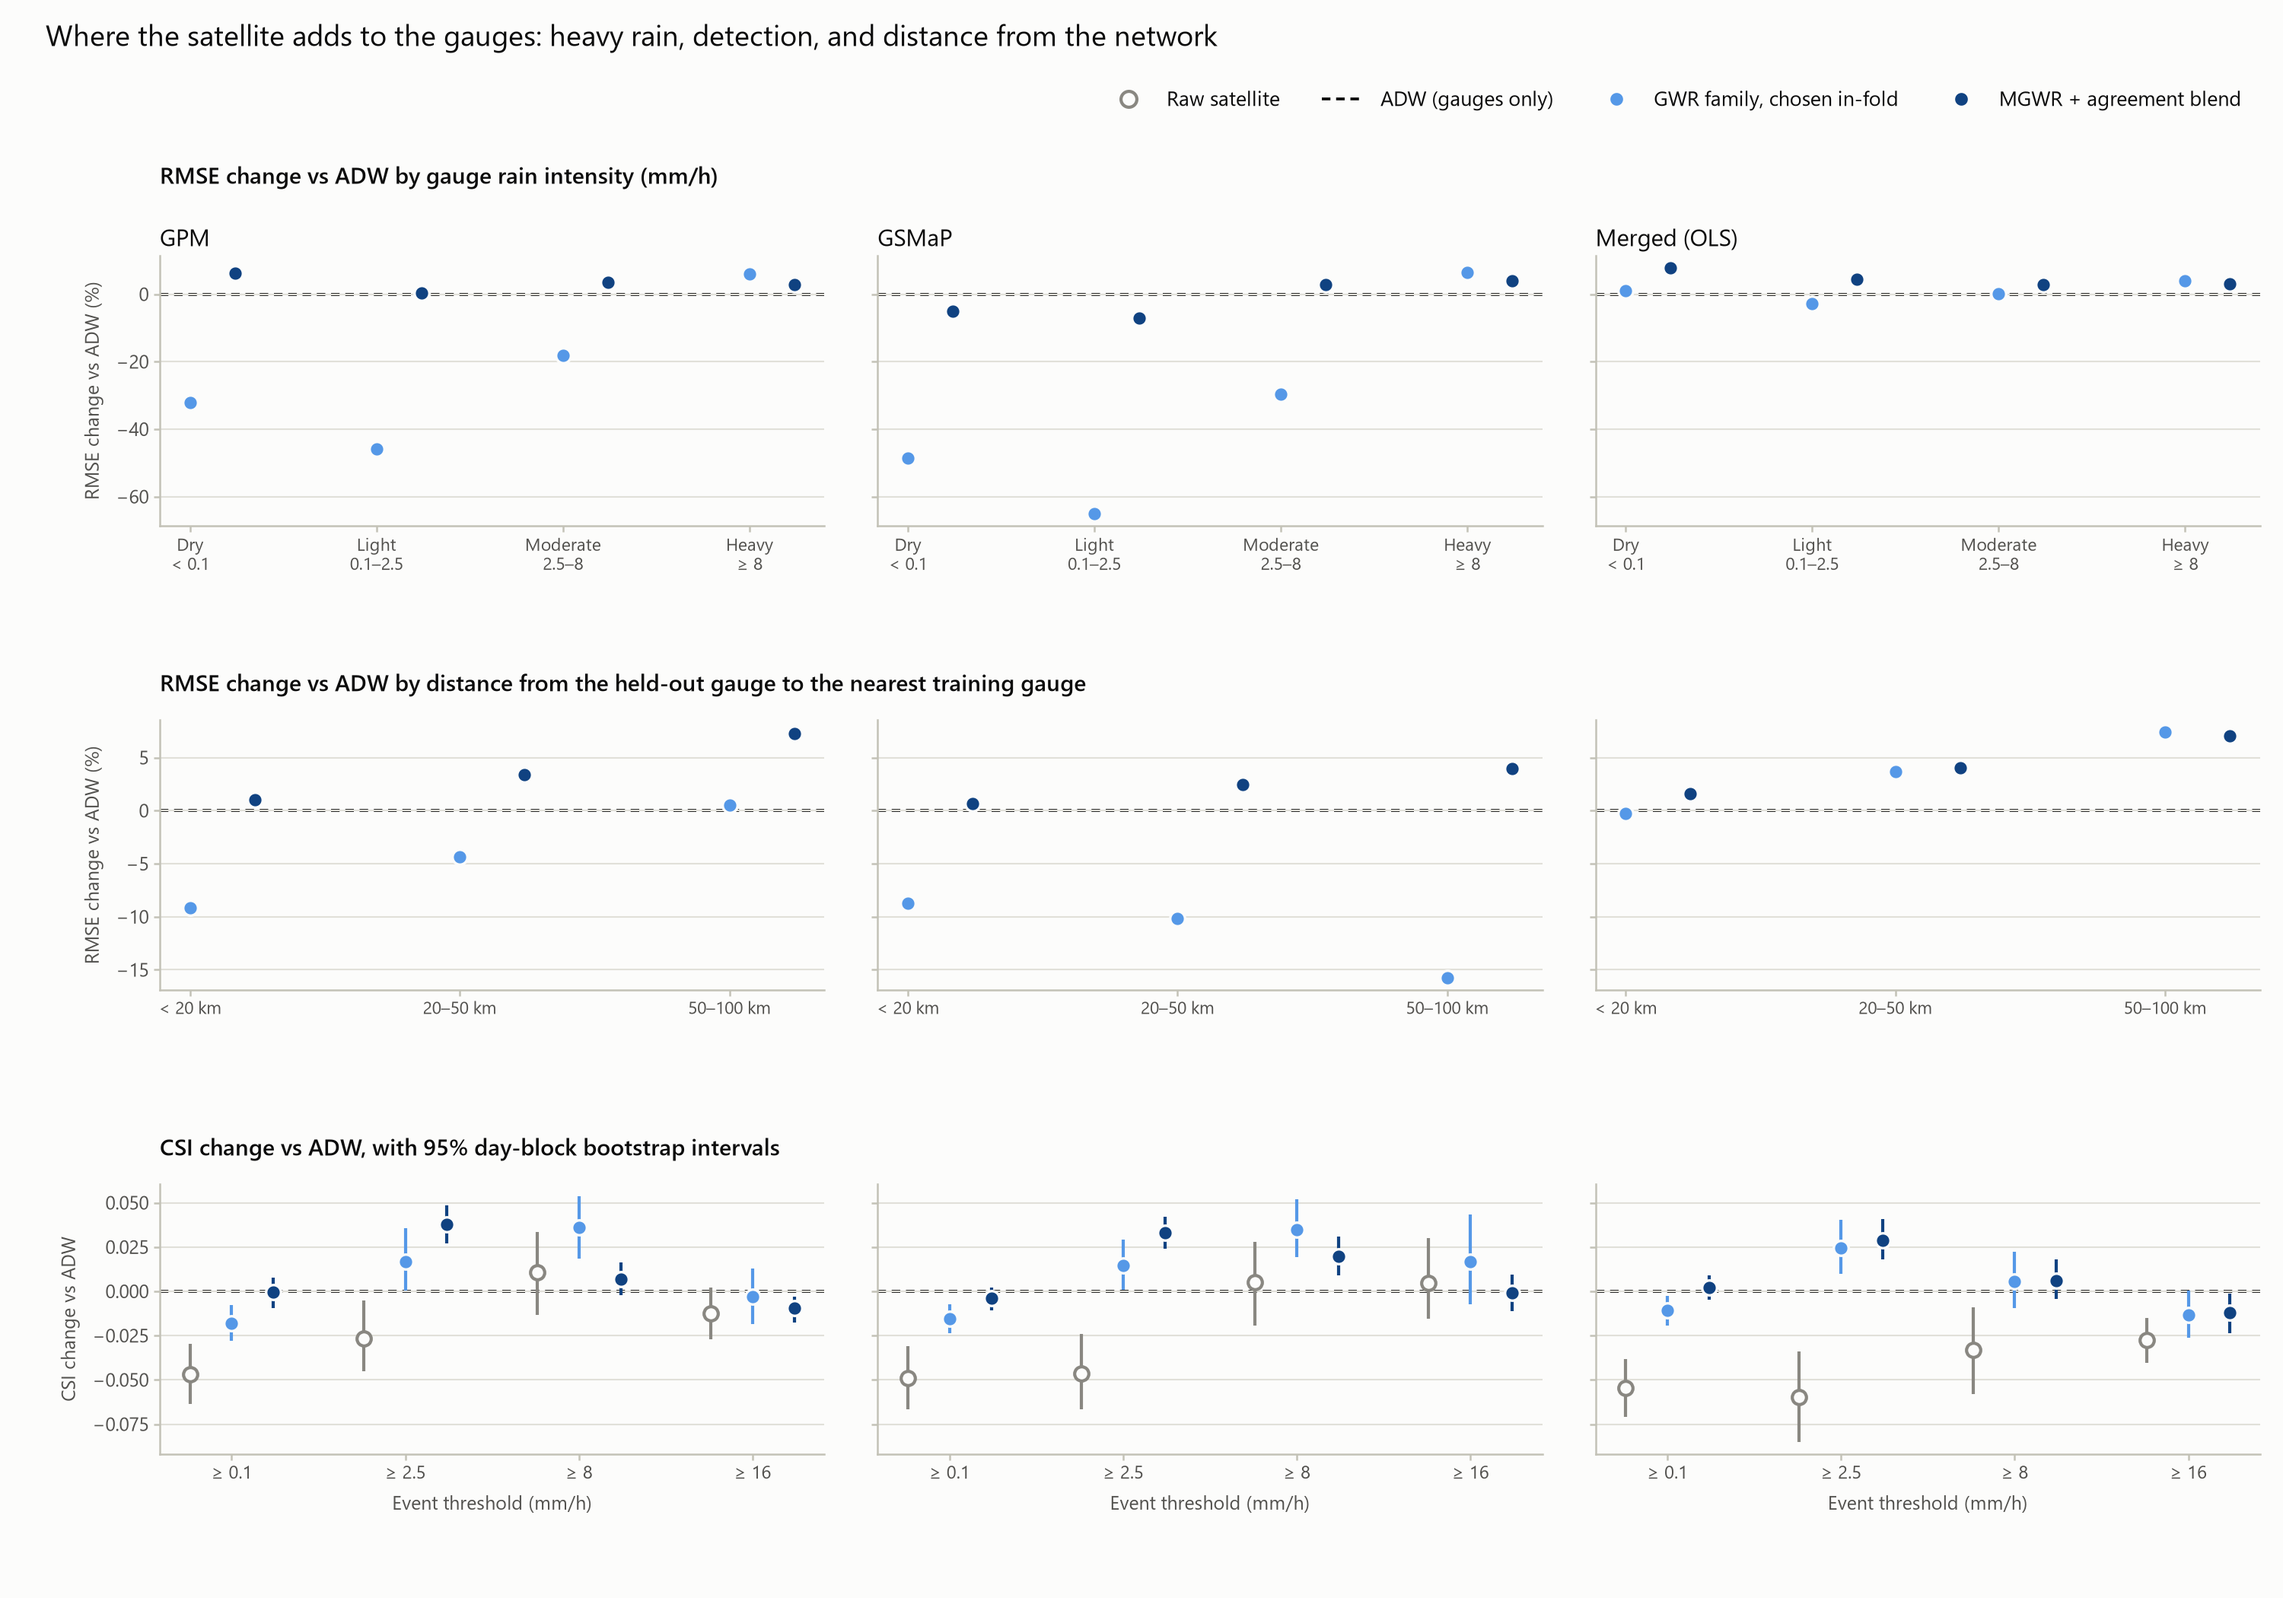
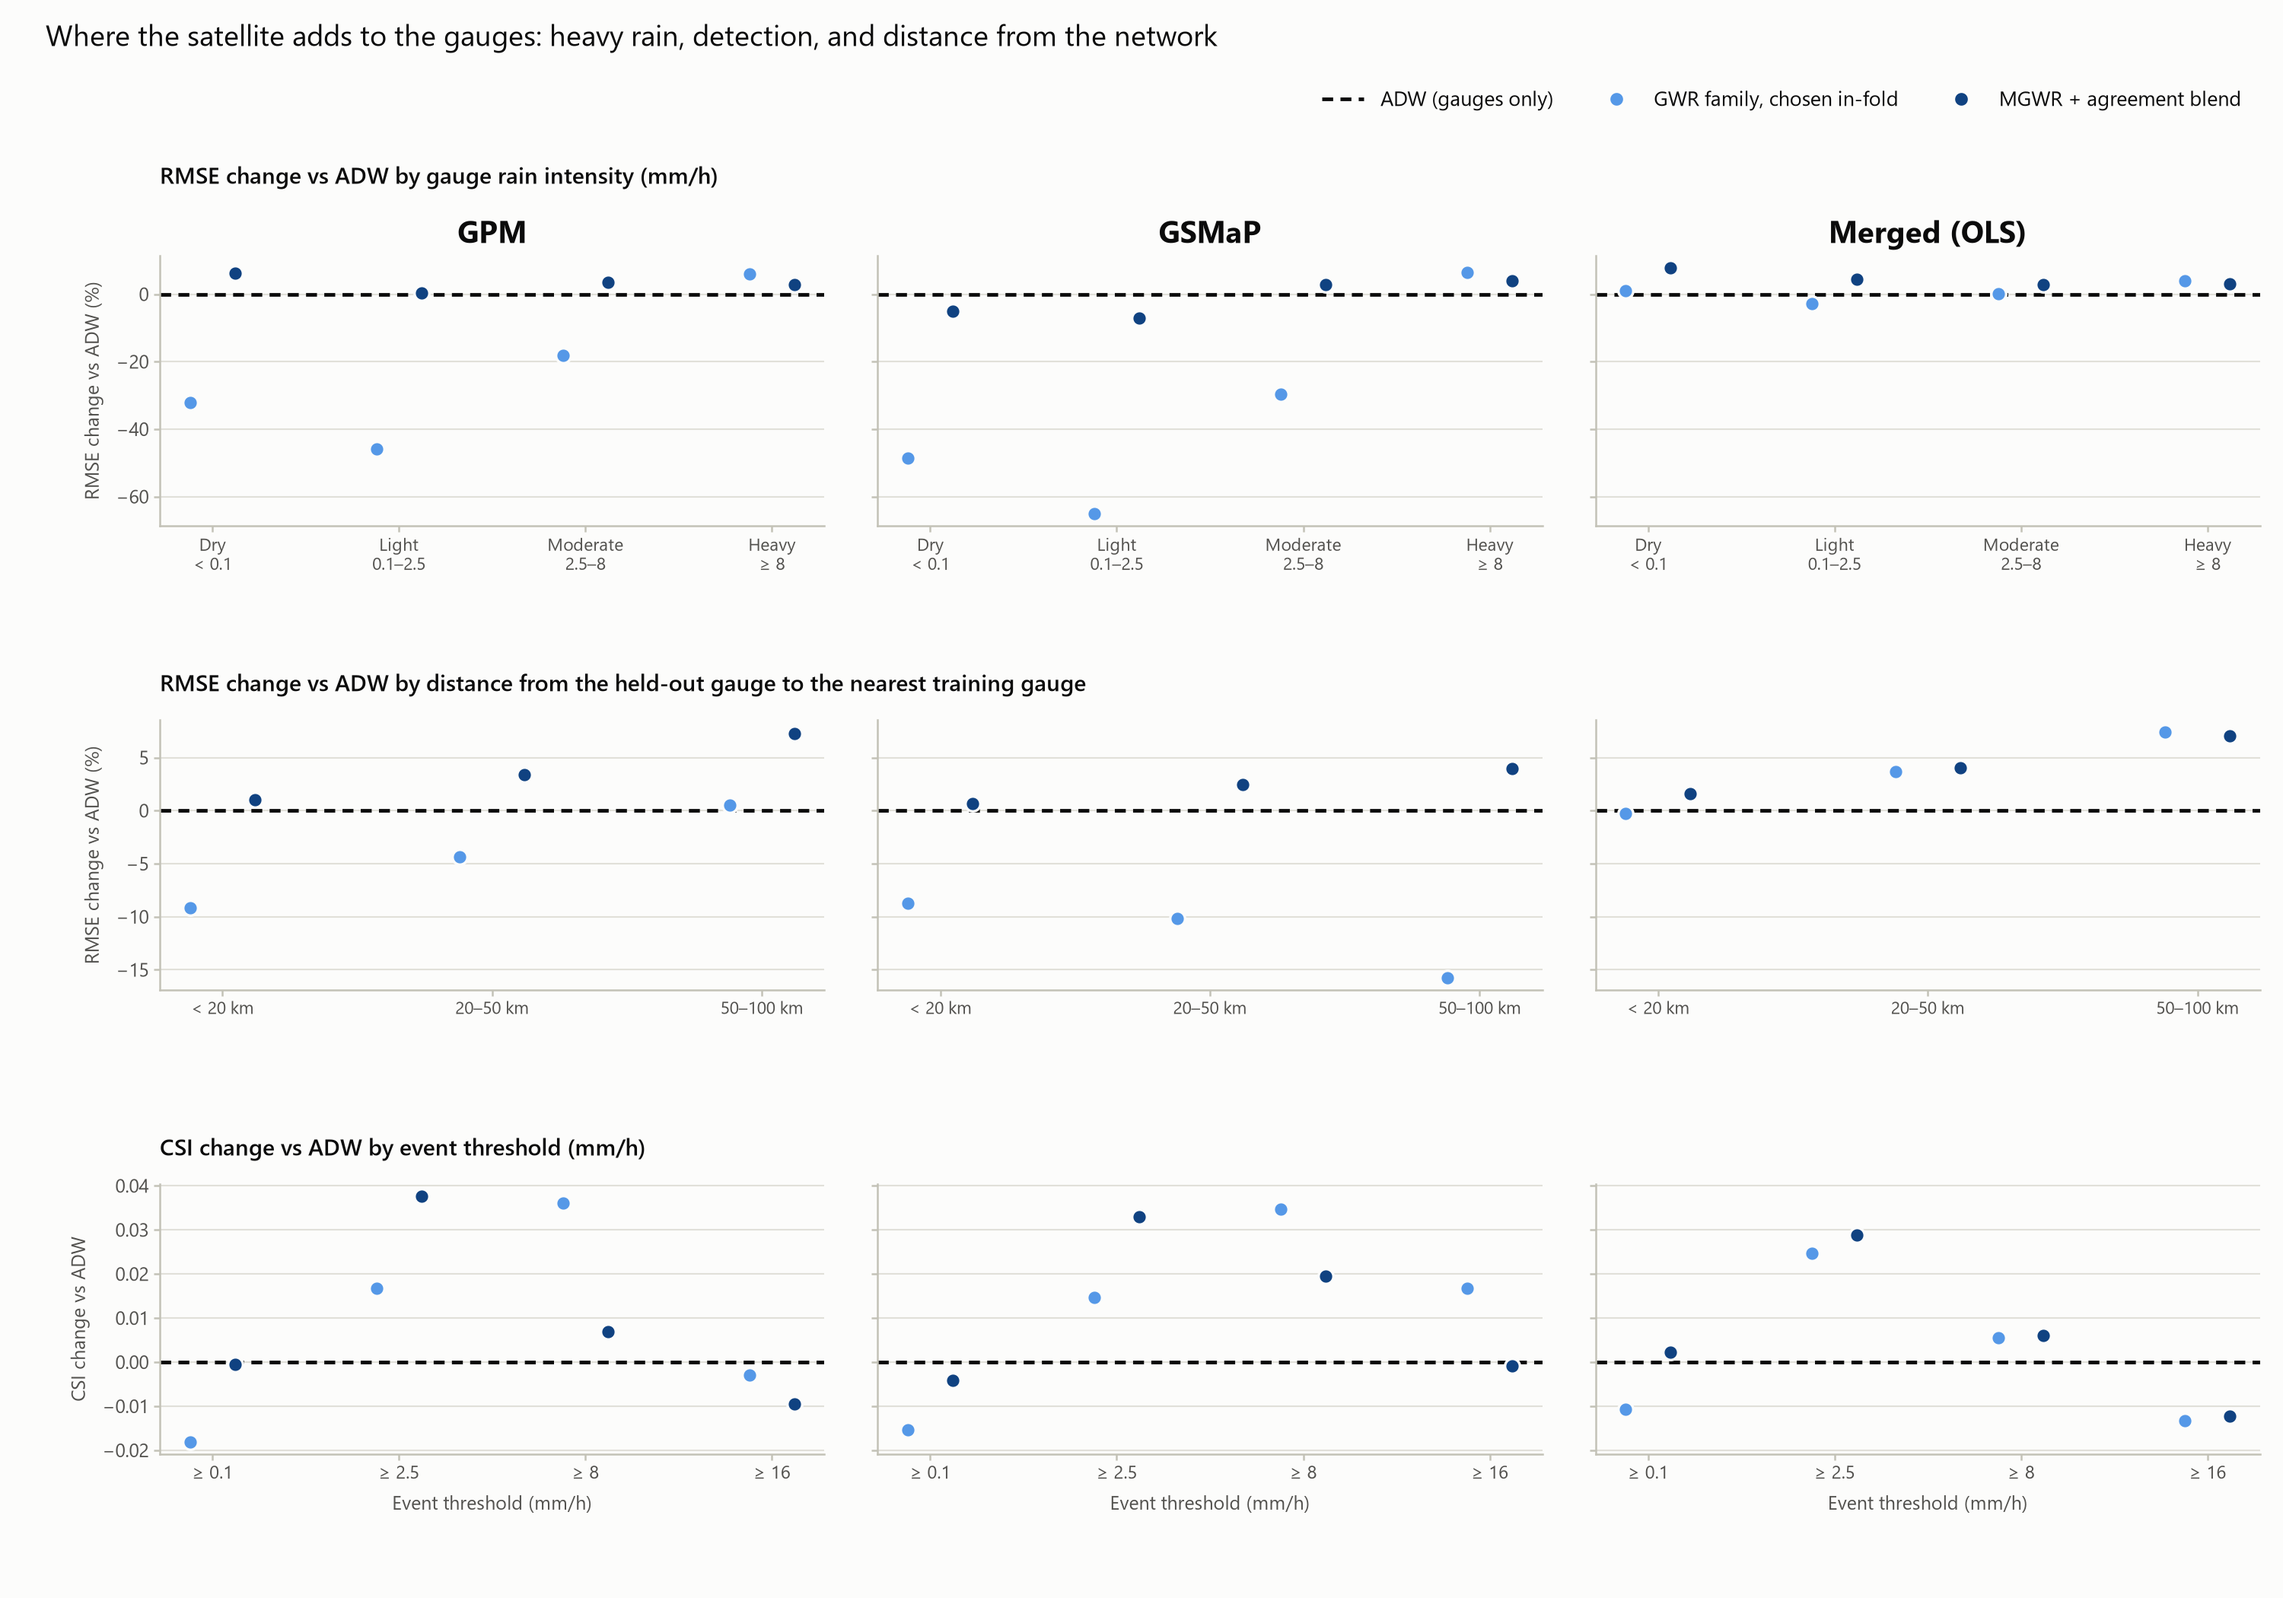
Show Fig. 7 as point estimates only, with bold centred anchor titles
Rows 1-2 of the where-it-helps figure are point estimates from
metrics_pooled.csv, with no per-stratum bootstrap, so the CSI row drops
its day-block whiskers and the interval wording in its heading to match.
The CSI row also drops the raw satellite, which leaves the legend
without it and centres the two remaining markers on each tick. Anchor
names are bold, larger and centred over each column; the ADW zero line
is solid ink at 1.15 pt, drawn above the grid.

diff --git a/scripts/plot_gauge_satellite_fusion.py b/scripts/plot_gauge_satellite_fusion.py
@@ -157,12 +157,12 @@ def title(fig: plt.Figure, heading: str, subheading: str, top: float = 0.975) ->
              color=INK_SECONDARY)
 
 
-def ladder_legend(fig: plt.Figure, raw: bool = True, **kwargs) -> None:
+def ladder_legend(fig: plt.Figure, raw: bool = True, adw_width: float = 0.9, **kwargs) -> None:
     handles = []
     if raw:
         handles.append(Line2D([], [], linestyle="none", marker="o", markersize=5, markerfacecolor=SURFACE,
                               markeredgecolor=MUTED, label=METHOD_LABELS["raw"]))
-    handles.append(Line2D([], [], color=INK, linestyle=(0, (3, 2)), linewidth=0.9, label=METHOD_LABELS["adw"]))
+    handles.append(Line2D([], [], color=INK, linestyle=(0, (3, 2)), linewidth=adw_width, label=METHOD_LABELS["adw"]))
     handles += [Line2D([], [], linestyle="none", marker="o", markersize=5, markerfacecolor=color,
                        markeredgecolor=SURFACE, label=METHOD_LABELS[method]) for method, color in LADDER]
     fig.legend(handles=handles, frameon=False, fontsize=6.6, ncol=len(handles), **kwargs)
@@ -336,12 +336,12 @@ def fig3_heatmap(fusion: list[dict]) -> None:
 def fig4_where(stratified: list[dict], detection: list[dict]) -> None:
     fig, axes = plt.subplots(3, len(ANCHORS), figsize=(10.0, 7.0), sharey="row")
     fig.subplots_adjust(left=0.07, right=0.99, top=0.84, bottom=0.09, wspace=0.08, hspace=0.72)
-    offsets = {"raw": -0.24, "auto": 0.0, "blend_agrenv_mgwr": 0.24}
+    offsets = {"auto": -0.12, "blend_agrenv_mgwr": 0.12}
     for column, anchor in enumerate(ANCHORS):
         for row_index, (group, levels) in enumerate([("rain_intensity", INTENSITY), ("nearest_train_km", DISTANCE)]):
             ax = axes[row_index, column]
             clean_axis(ax)
-            ax.axhline(0, color=INK, linestyle=(0, (3, 2)), linewidth=0.9, zorder=1)
+            ax.axhline(0, color=INK, linestyle=(0, (3, 2)), linewidth=1.15, zorder=2)
             x = np.arange(len(levels))
             for method, color in LADDER:
                 values = [pct(value(stratified, "RMSE_improvement_vs_adw", product=anchor, method=method, group=group,
@@ -352,23 +352,16 @@ def fig4_where(stratified: list[dict], detection: list[dict]) -> None:
             if column == 0:
                 ax.set_ylabel("RMSE change vs ADW (%)", fontsize=6)
             if row_index == 0:
-                ax.set_title(ANCHOR_LABELS[anchor].replace("\n", " "), loc="left", pad=3)
+                ax.set_title(ANCHOR_LABELS[anchor].replace("\n", " "), loc="center", pad=4, fontsize=9.5,
+                             fontweight="bold")
         ax = axes[2, column]
         clean_axis(ax)
-        ax.axhline(0, color=INK, linestyle=(0, (3, 2)), linewidth=0.9, zorder=1)
+        ax.axhline(0, color=INK, linestyle=(0, (3, 2)), linewidth=1.15, zorder=2)
         x = np.arange(len(THRESHOLDS))
-        for method, color in [("raw", None)] + LADDER:
+        for method, color in LADDER:
             rows = [one(detection, product=anchor, method=method, threshold=t, metric="CSI") for t in THRESHOLDS]
             centre = [row["delta"] if row else np.nan for row in rows]
-            lo = [row["ci_low"] if row else np.nan for row in rows]
-            hi = [row["ci_high"] if row else np.nan for row in rows]
-            if method == "raw":
-                ax.vlines(x + offsets[method], lo, hi, color=MUTED, linewidth=1.0, zorder=2)
-                ax.scatter(x + offsets[method], centre, s=20, facecolors=SURFACE, edgecolors=MUTED, linewidths=1.0,
-                           zorder=3)
-            else:
-                ax.vlines(x + offsets[method], lo, hi, color=color, linewidth=1.0, zorder=2)
-                ax.scatter(x + offsets[method], centre, s=22, color=color, edgecolors=SURFACE, linewidths=0.8, zorder=3)
+            ax.scatter(x + offsets[method], centre, s=22, color=color, edgecolors=SURFACE, linewidths=0.8, zorder=3)
         ax.set_xticks(x)
         ax.set_xticklabels([f"≥ {t:g}" for t in THRESHOLDS], fontsize=5.8)
         ax.set_xlabel("Event threshold (mm/h)", fontsize=6)
@@ -376,7 +369,7 @@ def fig4_where(stratified: list[dict], detection: list[dict]) -> None:
             ax.set_ylabel("CSI change vs ADW", fontsize=6)
     sections = ["RMSE change vs ADW by gauge rain intensity (mm/h)",
                 "RMSE change vs ADW by distance from the held-out gauge to the nearest training gauge",
-                "CSI change vs ADW, with 95% day-block bootstrap intervals"]
+                "CSI change vs ADW by event threshold (mm/h)"]
     for row_index, text in enumerate(sections):
         top = axes[row_index, 0].get_position().y1
         # Row 0 carries the anchor names as panel titles, so its section label sits above them.
@@ -384,7 +377,7 @@ def fig4_where(stratified: list[dict], detection: list[dict]) -> None:
                  fontweight="semibold")
     fig.suptitle("Where the satellite adds to the gauges: heavy rain, detection, and distance from the network",
                  x=0.02, ha="left", fontsize=9, y=0.985)
-    ladder_legend(fig, loc="upper right", bbox_to_anchor=(0.99, 0.955))
+    ladder_legend(fig, raw=False, adw_width=1.15, loc="upper right", bbox_to_anchor=(0.99, 0.955))
     save(fig, "fusion_fig4_where_it_helps")
 
 
